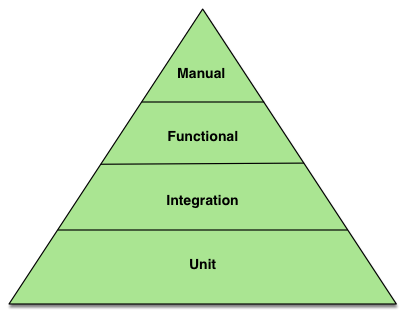
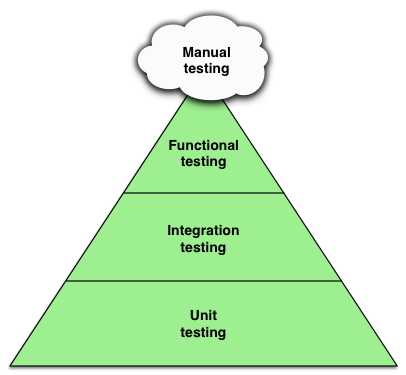
Publish to GitHub Pages

Changed region(s): [[0.0, 0.0287, 0.9754, 1.0], [0.4138, 0.6019, 0.5911, 0.6879], [0.4433, 0.8025, 0.5616, 0.9172]]

diff --git a/index.html b/index.html
@@ -41,24 +41,19 @@
 <div id="toctitle">Table of Contents</div>
 <ul class="sectlevel1">
 <li><a href="#the_sample_project">1. The sample project</a></li>
-<li><a href="#manual_verification_and_debugging">2. Manual verification and debugging</a>
+<li><a href="#on_the_importance_of_testing">2. On the importance of testing</a>
 <ul class="sectlevel2">
-<li><a href="#rapid_development_for_plugins">2.1. Rapid development for plugins</a></li>
-<li><a href="#debugging_from_the_ide">2.2. Debugging from the IDE</a></li>
+<li><a href="#the_testing_pyramid">2.1. The testing pyramid</a></li>
 </ul>
 </li>
-<li><a href="#defining_and_implementing_appropriate_tests_types">3. Defining and implementing appropriate tests types</a>
+<li><a href="#manual-tests">3. Setting up manual tests</a></li>
+<li><a href="#implementing_automated_tests">4. Implementing automated tests</a>
 <ul class="sectlevel2">
-<li><a href="#the_testing_pyramid">3.1. The testing pyramid</a></li>
-<li><a href="#setting_up_dedicated_source_sets">3.2. Setting up dedicated source sets</a></li>
-<li><a href="#tooling_support_for_every_test_type">3.3. Tooling support for every test type</a></li>
-</ul>
-</li>
-<li><a href="#implementing_tests">4. Implementing tests</a>
-<ul class="sectlevel2">
-<li><a href="#unit-tests">4.1. Unit tests</a></li>
-<li><a href="#integration-tests">4.2. Integration tests</a></li>
-<li><a href="#functional-tests">4.3. Functional tests</a></li>
+<li><a href="#organizing_test_source_code">4.1. Organizing test source code</a></li>
+<li><a href="#setting_up_dedicated_source_sets">4.2. Setting up dedicated source sets</a></li>
+<li><a href="#unit-tests">4.3. Unit tests</a></li>
+<li><a href="#integration-tests">4.4. Integration tests</a></li>
+<li><a href="#functional-tests">4.5. Functional tests</a></li>
 </ul>
 </li>
 <li><a href="#summary">5. Summary</a></li>
@@ -97,27 +92,39 @@
 <h2 id="the_sample_project"><a class="anchor" href="#the_sample_project"></a>1. The sample project</h2>
 <div class="sectionbody">
 <div class="paragraph">
-<p>All discussions around testing in this guide are based on a sample project called URL verifier plugin. You can inspect and download the <a href="https://github.com/gradle-guides/testing-gradle-plugins/tree/master/samples/code/url-verifier-plugin">source code of the plugin</a> in the corresponding GitHub repository. The plugin creates a task named <code>verifyUrl</code> that checks whether a given URL can be resolved via HTTP GET. The URL can be provided through an extension named <code>verification</code> in the consuming build script.</p>
+<p>All discussions around testing in this guide are based on a sample project called URL verifier plugin. The plugin creates a task named <code>verifyUrl</code> that checks whether a given URL can be resolved via HTTP GET. The URL can be provided through an extension named <code>verification</code> in the consuming build script. You can inspect and download the <a href="https://github.com/gradle-guides/testing-gradle-plugins/tree/master/samples/code/url-verifier-plugin">source code of the plugin</a> in the corresponding GitHub repository.</p>
 </div>
 <div class="paragraph">
-<p>The following build script demonstrates how a consuming build script could look like.</p>
+<p>The following build script demonstrates a build script consuming the plugin.</p>
 </div>
 <div class="listingblock">
 <div class="title">build.gradle</div>
 <div class="content">
-<pre class="CodeRay highlight"><code data-lang="groovy">apply <span class="key">plugin</span>: <span class="string"><span class="delimiter">'</span><span class="content">org.gradle.sample.urlverifier</span><span class="delimiter">'</span></span>
+<pre class="CodeRay highlight"><code data-lang="groovy">apply <span class="key">plugin</span>: <span class="string"><span class="delimiter">'</span><span class="content">org.gradle.sample.urlverifier</span><span class="delimiter">'</span></span>   <i class="conum" data-value="1"></i><b>(1)</b>
 
-verification {
+verification {                                  <i class="conum" data-value="2"></i><b>(2)</b>
     url = <span class="string"><span class="delimiter">'</span><span class="content">http://www.google.com/</span><span class="delimiter">'</span></span>
 }</code></pre>
 </div>
 </div>
+<div class="colist arabic">
+<table>
+<tr>
+<td><i class="conum" data-value="1"></i><b>1</b></td>
+<td>Applies the plugin to the project</td>
+</tr>
+<tr>
+<td><i class="conum" data-value="2"></i><b>2</b></td>
+<td>Configures the URL to be verified through the exposed extension</td>
+</tr>
+</table>
+</div>
 <div class="paragraph">
-<p>Executing the command <code>gradle verifyUrl</code> would render a success message in case the URL can be resolved.</p>
+<p>Executing the task provided by the plugin renders a success message if the HTTP GET call to the configured URL returns with a 200 response code.</p>
 </div>
 <div class="listingblock">
 <div class="content">
-<pre class="CodeRay highlight"><code data-lang="shell">Parallel execution is an incubating feature.
+<pre class="CodeRay highlight"><code data-lang="shell">$ gradle verifyUrl
 
 &gt; Task :verifyUrl
 Successfully resolved URL 'http://www.google.com/'
@@ -127,27 +134,89 @@ BUILD SUCCESSFUL in 0s
 </div>
 </div>
 <div class="paragraph">
-<p>The following sections will discuss how to effectively debug and test the plugin from different angles.</p>
+<p>The following sections will discuss how to effectively test the plugin manually and in an automated fashion. Before diving into the code, let&#8217;s first identify the different types of tests.</p>
 </div>
 </div>
 </div>
 <div class="sect1">
-<h2 id="manual_verification_and_debugging"><a class="anchor" href="#manual_verification_and_debugging"></a>2. Manual verification and debugging</h2>
+<h2 id="on_the_importance_of_testing"><a class="anchor" href="#on_the_importance_of_testing"></a>2. On the importance of testing</h2>
 <div class="sectionbody">
+<div class="paragraph">
+<p>Testing is a foundational activity in the software development lifecycle. Appropriate testing ensures that the software works on a functional and non-functional level before it is released to the end user. Furthermore, automated testing also enables the development team to refactor and evlove the code without fearing to introduce regressions in the process.</p>
+</div>
 <div class="sect2">
-<h3 id="rapid_development_for_plugins"><a class="anchor" href="#rapid_development_for_plugins"></a>2.1. Rapid development for plugins</h3>
+<h3 id="the_testing_pyramid"><a class="anchor" href="#the_testing_pyramid"></a>2.1. The testing pyramid</h3>
+<div class="imageblock" style="float: right">
+<div class="content">
+<img src="images/testing-pyramid.png" alt="testing pyramid">
+</div>
+</div>
+<div class="paragraph">
+<p>Probably the easiest way to test software is to manually exercise it. <strong>Manual testing</strong> can occur at any time is is not bound to writing automation code. However, manual testing is error-prone and cumbersome as it requires a human to walk through a set of predefined test cases.</p>
+</div>
+<div class="paragraph">
+<p>In contrast to manual testing, other types of tests can be fully automated and run with every change to the code. The testing pyramid introduced by Mike Cohen in his book <a href="https://www.mountaingoatsoftware.com/books/succeeding-with-agile-software-development-using-scrum">Succeeding with Agile: Software Development Using Scrum</a> describes three types of automated tests with tradeoffs in regards to the quantity of those tests, their maintaince costs and the time it takes to execute them.</p>
+</div>
+<div class="paragraph">
+<p><strong>Unit testing</strong> aims to verify the smallest unit of code. In Java-based projects this unit is a method. Unit tests usually do not interact with other parts of the system e.g. a database or the file system. Any references are isolated by replacing the interaction with Stubs or Mocks. For Gradle plugin implementations, the unit under test is a POJO or utility class that doesn&#8217;t use the Gradle API.</p>
+</div>
+<div class="paragraph">
+<p><strong>Integration testing</strong> verifies that multiple classes or components work together as a whole. The code under test may reach out to external subsystems or use the Gradle API.</p>
+</div>
+<div class="paragraph">
+<p><strong>Functional testing</strong> is used to test the system from an end user&#8217;s perspective. End-to-end tests for Gradle plugins stand up a build script, apply the plugin under test and execute the build with a specific task. The outcome of the build (e.g. standard output/error or generated artifacts) verfies the correctness of the functionality.</p>
+</div>
+<div class="paragraph">
+<p>Implementing manual and automated testing for Gradle plugins is straight forward - it just requires the right tooling. The table below gives you a brief overview on how to approach each test type. For a detailed discussion and code example please refer to the dedicated section in this guide.</p>
+</div>
+<table class="tableblock frame-all grid-all spread">
+<colgroup>
+<col style="width: 20%;">
+<col style="width: 80%;">
+</colgroup>
+<thead>
+<tr>
+<th class="tableblock halign-left valign-top">Test type</th>
+<th class="tableblock halign-left valign-top">Tooling support</th>
+</tr>
+</thead>
+<tbody>
+<tr>
+<td class="tableblock halign-left valign-top"><p class="tableblock"><a href="#manual-tests">Manual tests</a></p></td>
+<td class="tableblock halign-left valign-top"><p class="tableblock"><a href="https://docs.gradle.org/4.1/userguide/composite_builds.html">Gradle composite builds</a></p></td>
+</tr>
+<tr>
+<td class="tableblock halign-left valign-top"><p class="tableblock"><a href="#unit-tests">Unit tests</a></p></td>
+<td class="tableblock halign-left valign-top"><p class="tableblock">Any JVM-based test framework</p></td>
+</tr>
+<tr>
+<td class="tableblock halign-left valign-top"><p class="tableblock"><a href="#integration-tests">Integration tests</a></p></td>
+<td class="tableblock halign-left valign-top"><p class="tableblock">Any JVM-based test framework and <a href="https://docs.gradle.org/4.1/javadoc/org/gradle/testfixtures/ProjectBuilder.html">Gradle&#8217;s ProjectBuilder API</a></p></td>
+</tr>
+<tr>
+<td class="tableblock halign-left valign-top"><p class="tableblock"><a href="#functional-tests">Functional tests</a></p></td>
+<td class="tableblock halign-left valign-top"><p class="tableblock">Any JVM-based test framework and <a href="https://docs.gradle.org/4.1/userguide/test_kit.html">Gradle TestKit</a></p></td>
+</tr>
+</tbody>
+</table>
+</div>
+</div>
+</div>
+<div class="sect1">
+<h2 id="manual-tests"><a class="anchor" href="#manual-tests"></a>3. Setting up manual tests</h2>
+<div class="sectionbody">
 <div class="paragraph">
 <p>One way to test a plugin in a consuming project is to publish the plugin JAR file to a local repository and point the project it. Granted this technique is cumbersome - every change to the plugin code requires the developer to publish a new artifact.</p>
 </div>
 <div class="paragraph">
-<p>With the introduction of the <a href="https://docs.gradle.org/4.1/userguide/composite_builds.html">composite builds</a> feature, plugin developers have a more powerful mechanism at their disposal. The standalone plugin project and the project consuming the plugin can be combined together into a single unit making it much more straight forward to try out or debug changes without the hassle of publishing.</p>
+<p>With the introduction of the <a href="https://docs.gradle.org/4.1/userguide/composite_builds.html">composite builds</a> feature, plugin developers have a more powerful mechanism at their disposal. The standalone plugin project and the consuming project can be combined together into a single unit making it much more straight forward to try out or debug changes without the hassle of re-publishing the binary file.</p>
 </div>
 <div class="listingblock">
 <div class="content">
 <pre>.
 ├── include-plugin-build   <i class="conum" data-value="1"></i><b>(1)</b>
-│   ├── build.gradle
-│   └── settings.gradle
+│   ├── build.gradle
+│   └── settings.gradle
 └── url-verifier-plugin    <i class="conum" data-value="2"></i><b>(2)</b>
     ├── build.gradle
     ├── settings.gradle
@@ -188,26 +257,39 @@ BUILD SUCCESSFUL in 0s
 <pre class="CodeRay highlight"><code data-lang="groovy">includeBuild <span class="string"><span class="delimiter">'</span><span class="content">../url-verifier-plugin</span><span class="delimiter">'</span></span></code></pre>
 </div>
 </div>
+<div class="paragraph">
+<p>The execution of the project <code>include-plugin-build</code> in plain console mode clearly shows that the plugin project became part of a multi-project build.</p>
 </div>
-<div class="sect2">
-<h3 id="debugging_from_the_ide"><a class="anchor" href="#debugging_from_the_ide"></a>2.2. Debugging from the IDE</h3>
+<div class="listingblock">
+<div class="content">
+<pre class="CodeRay highlight"><code data-lang="shell">$ gradle verifyUrl --console=plain
 
+:url-verifier-plugin:compileJava
+:url-verifier-plugin:compileGroovy NO-SOURCE
+:url-verifier-plugin:pluginDescriptors
+:url-verifier-plugin:processResources
+:url-verifier-plugin:classes
+:url-verifier-plugin:jar
+:verifyUrl
+Successfully resolved URL 'http://www.google.com/'
+
+BUILD SUCCESSFUL in 1s
+1 actionable task: 1 executed</code></pre>
+</div>
+</div>
+<div class="paragraph">
+<p>Next up, you&#8217;ll learn how to implement automated tests for Gradle plugins.</p>
 </div>
 </div>
 </div>
 <div class="sect1">
-<h2 id="defining_and_implementing_appropriate_tests_types"><a class="anchor" href="#defining_and_implementing_appropriate_tests_types"></a>3. Defining and implementing appropriate tests types</h2>
+<h2 id="implementing_automated_tests"><a class="anchor" href="#implementing_automated_tests"></a>4. Implementing automated tests</h2>
 <div class="sectionbody">
-<div class="sect2">
-<h3 id="the_testing_pyramid"><a class="anchor" href="#the_testing_pyramid"></a>3.1. The testing pyramid</h3>
-<div class="imageblock" style="text-align: center">
-<div class="content">
-<img src="images/testing-pyramid.png" alt="testing pyramid">
-</div>
-</div>
+<div class="paragraph">
+<p>Setting up a suite of tests earlier on the project lifecycle is crucial to the success of your plugin. You will encounter various situations that make your tests invaluable e.g. when upgrading the plugin to a new version of Gradle or enhancing and refactoring the code.</p>
 </div>
 <div class="sect2">
-<h3 id="setting_up_dedicated_source_sets"><a class="anchor" href="#setting_up_dedicated_source_sets"></a>3.2. Setting up dedicated source sets</h3>
+<h3 id="organizing_test_source_code"><a class="anchor" href="#organizing_test_source_code"></a>4.1. Organizing test source code</h3>
 <div class="listingblock">
 <div class="content">
 <pre>.
@@ -247,6 +329,9 @@ BUILD SUCCESSFUL in 0s
 </tr>
 </table>
 </div>
+</div>
+<div class="sect2">
+<h3 id="setting_up_dedicated_source_sets"><a class="anchor" href="#setting_up_dedicated_source_sets"></a>4.2. Setting up dedicated source sets</h3>
 <div class="listingblock">
 <div class="title">integration-test.gradle</div>
 <div class="content">
@@ -277,41 +362,7 @@ check.dependsOn integrationTest</code></pre>
 </div>
 </div>
 <div class="sect2">
-<h3 id="tooling_support_for_every_test_type"><a class="anchor" href="#tooling_support_for_every_test_type"></a>3.3. Tooling support for every test type</h3>
-<table class="tableblock frame-all grid-all spread">
-<colgroup>
-<col style="width: 20%;">
-<col style="width: 80%;">
-</colgroup>
-<thead>
-<tr>
-<th class="tableblock halign-left valign-top">Test type</th>
-<th class="tableblock halign-left valign-top">Tooling support</th>
-</tr>
-</thead>
-<tbody>
-<tr>
-<td class="tableblock halign-left valign-top"><p class="tableblock"><a href="#unit-tests">Unit tests</a></p></td>
-<td class="tableblock halign-left valign-top"><p class="tableblock">Any JVM-based test framework</p></td>
-</tr>
-<tr>
-<td class="tableblock halign-left valign-top"><p class="tableblock"><a href="#integration-tests">Integration tests</a></p></td>
-<td class="tableblock halign-left valign-top"><p class="tableblock">Any JVM-based test framework and <a href="https://docs.gradle.org/4.1/javadoc/org/gradle/testfixtures/ProjectBuilder.html">Gradle&#8217;s ProjectBuilder API</a></p></td>
-</tr>
-<tr>
-<td class="tableblock halign-left valign-top"><p class="tableblock"><a href="#functional-tests">Functional tests</a></p></td>
-<td class="tableblock halign-left valign-top"><p class="tableblock">Any JVM-based test framework and <a href="https://docs.gradle.org/4.1/userguide/test_kit.html">Gradle TestKit</a></p></td>
-</tr>
-</tbody>
-</table>
-</div>
-</div>
-</div>
-<div class="sect1">
-<h2 id="implementing_tests"><a class="anchor" href="#implementing_tests"></a>4. Implementing tests</h2>
-<div class="sectionbody">
-<div class="sect2">
-<h3 id="unit-tests"><a class="anchor" href="#unit-tests"></a>4.1. Unit tests</h3>
+<h3 id="unit-tests"><a class="anchor" href="#unit-tests"></a>4.3. Unit tests</h3>
 <div class="listingblock">
 <div class="title">HttpResponse.java</div>
 <div class="content">
@@ -374,7 +425,7 @@ check.dependsOn integrationTest</code></pre>
 </div>
 </div>
 <div class="sect2">
-<h3 id="integration-tests"><a class="anchor" href="#integration-tests"></a>4.2. Integration tests</h3>
+<h3 id="integration-tests"><a class="anchor" href="#integration-tests"></a>4.4. Integration tests</h3>
 <div class="listingblock">
 <div class="title">DefaultHttpCaller.java</div>
 <div class="content">
@@ -563,7 +614,7 @@ check.dependsOn integrationTest</code></pre>
 </div>
 </div>
 <div class="sect2">
-<h3 id="functional-tests"><a class="anchor" href="#functional-tests"></a>4.3. Functional tests</h3>
+<h3 id="functional-tests"><a class="anchor" href="#functional-tests"></a>4.5. Functional tests</h3>
 <div class="listingblock">
 <div class="title">UrlVerifierPlugin.java</div>
 <div class="content">
@@ -672,7 +723,7 @@ check.dependsOn integrationTest</code></pre>
 </div>
 <div id="footer">
 <div id="footer-text">
-Last updated 2017-08-11 20:56:43 +00:00
+Last updated 2017-08-14 19:15:47 +00:00
 </div>
 </div>
 </body>
